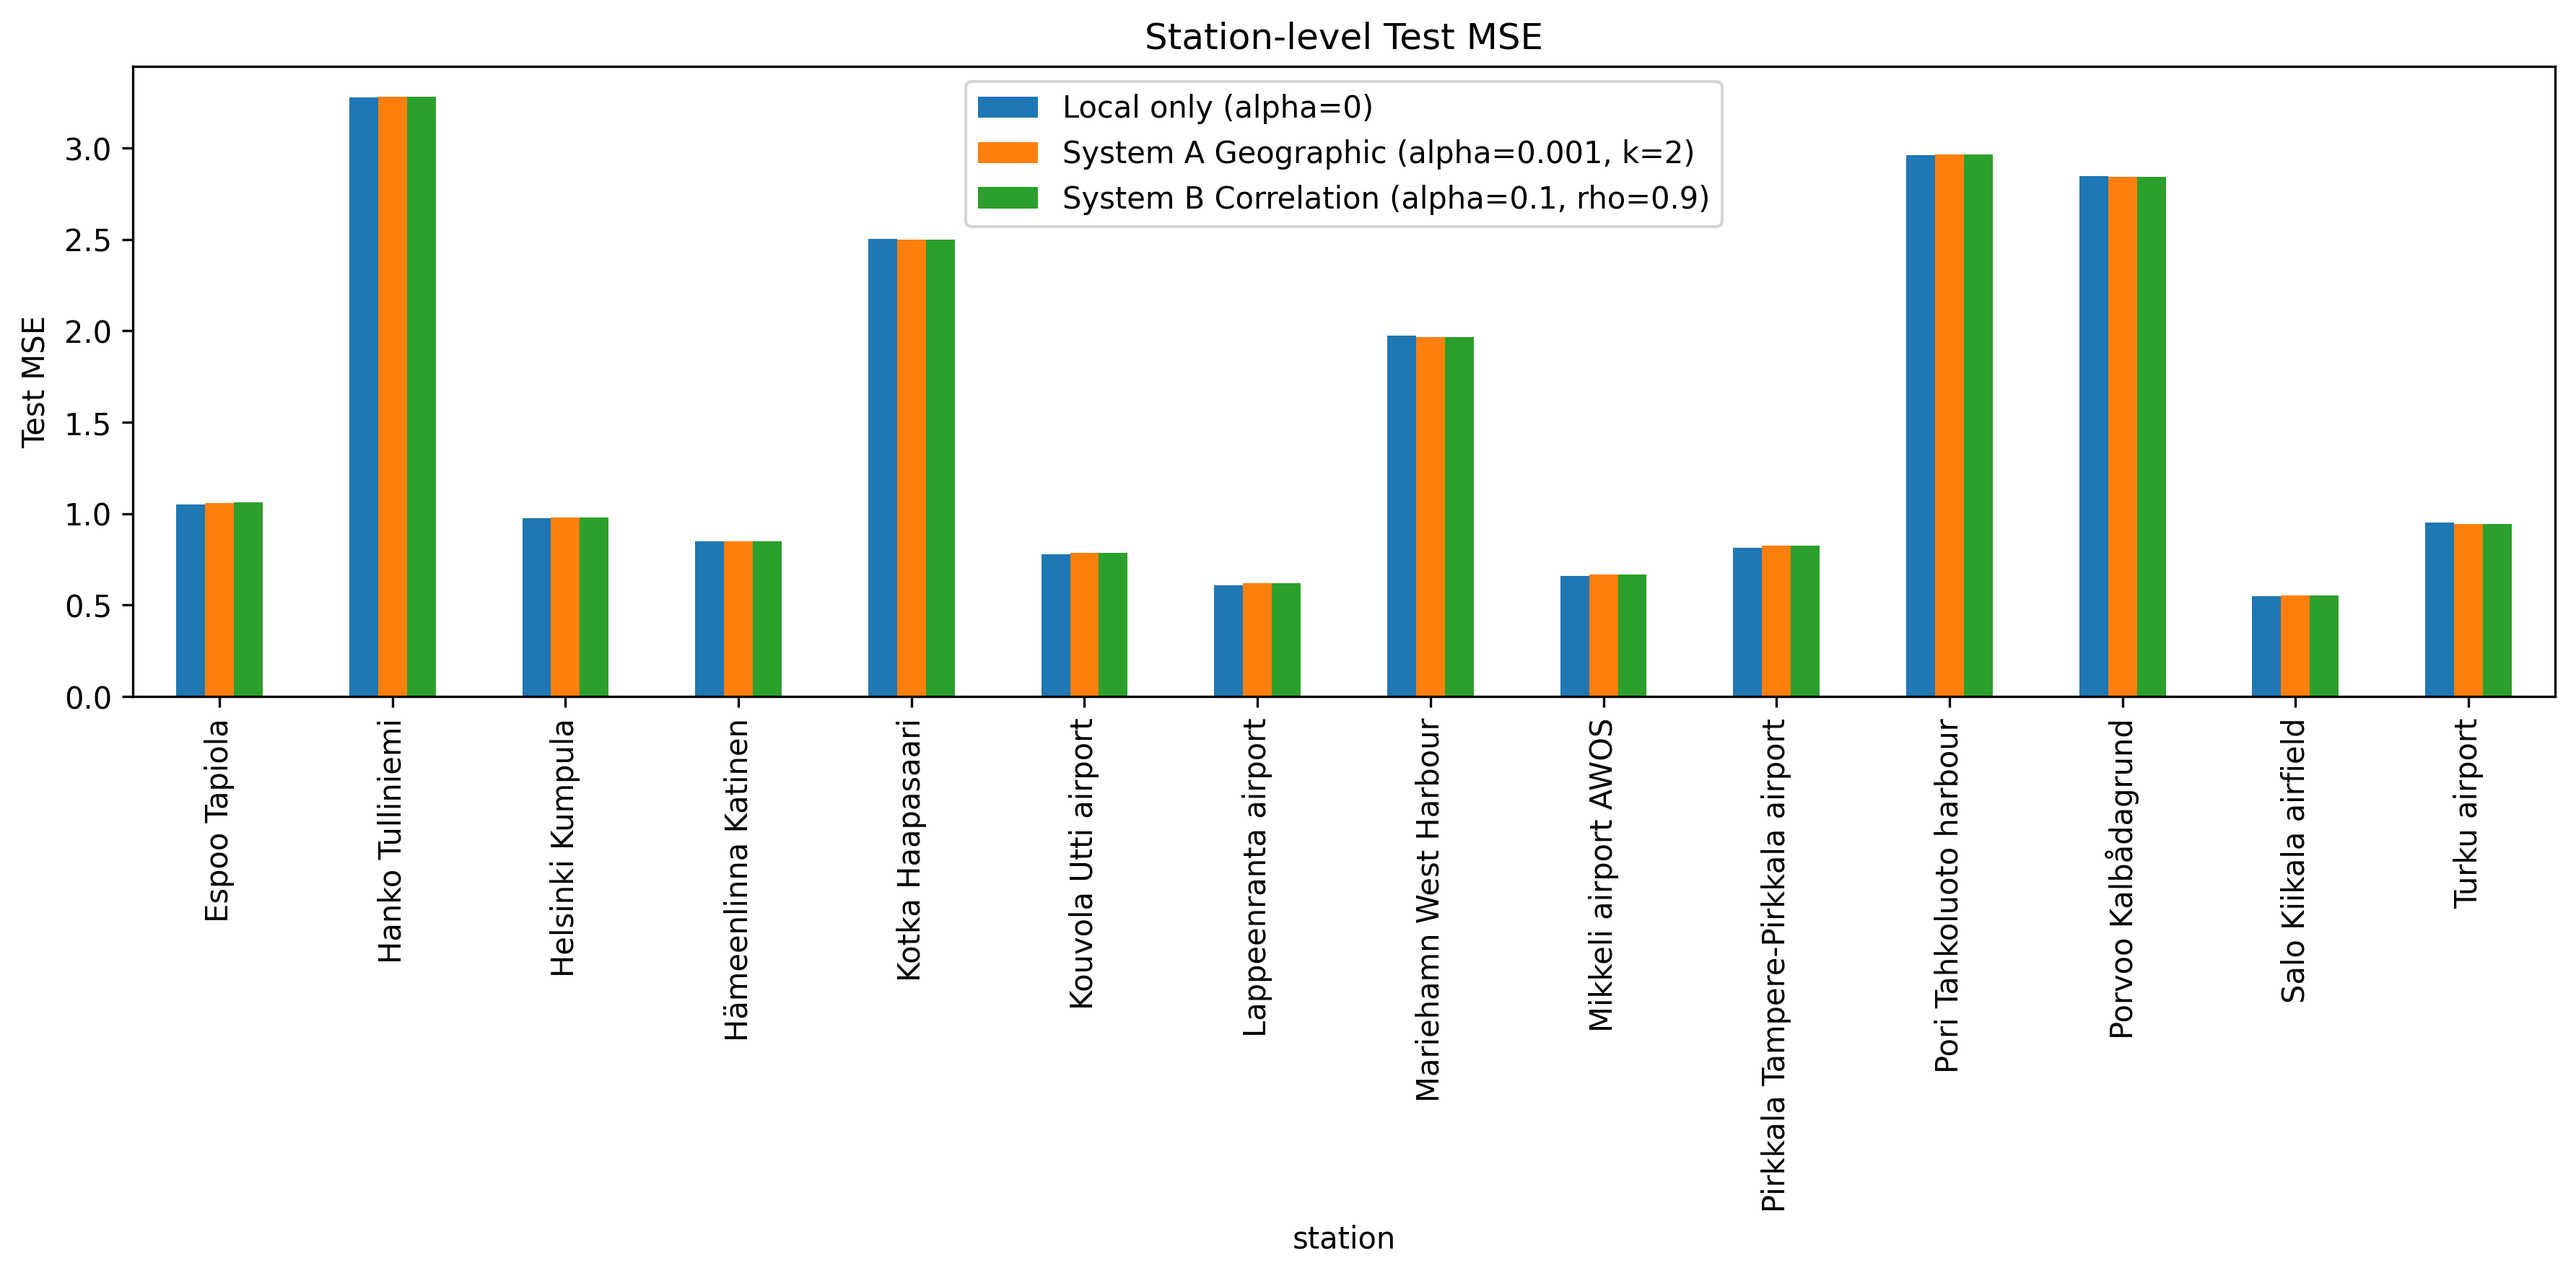
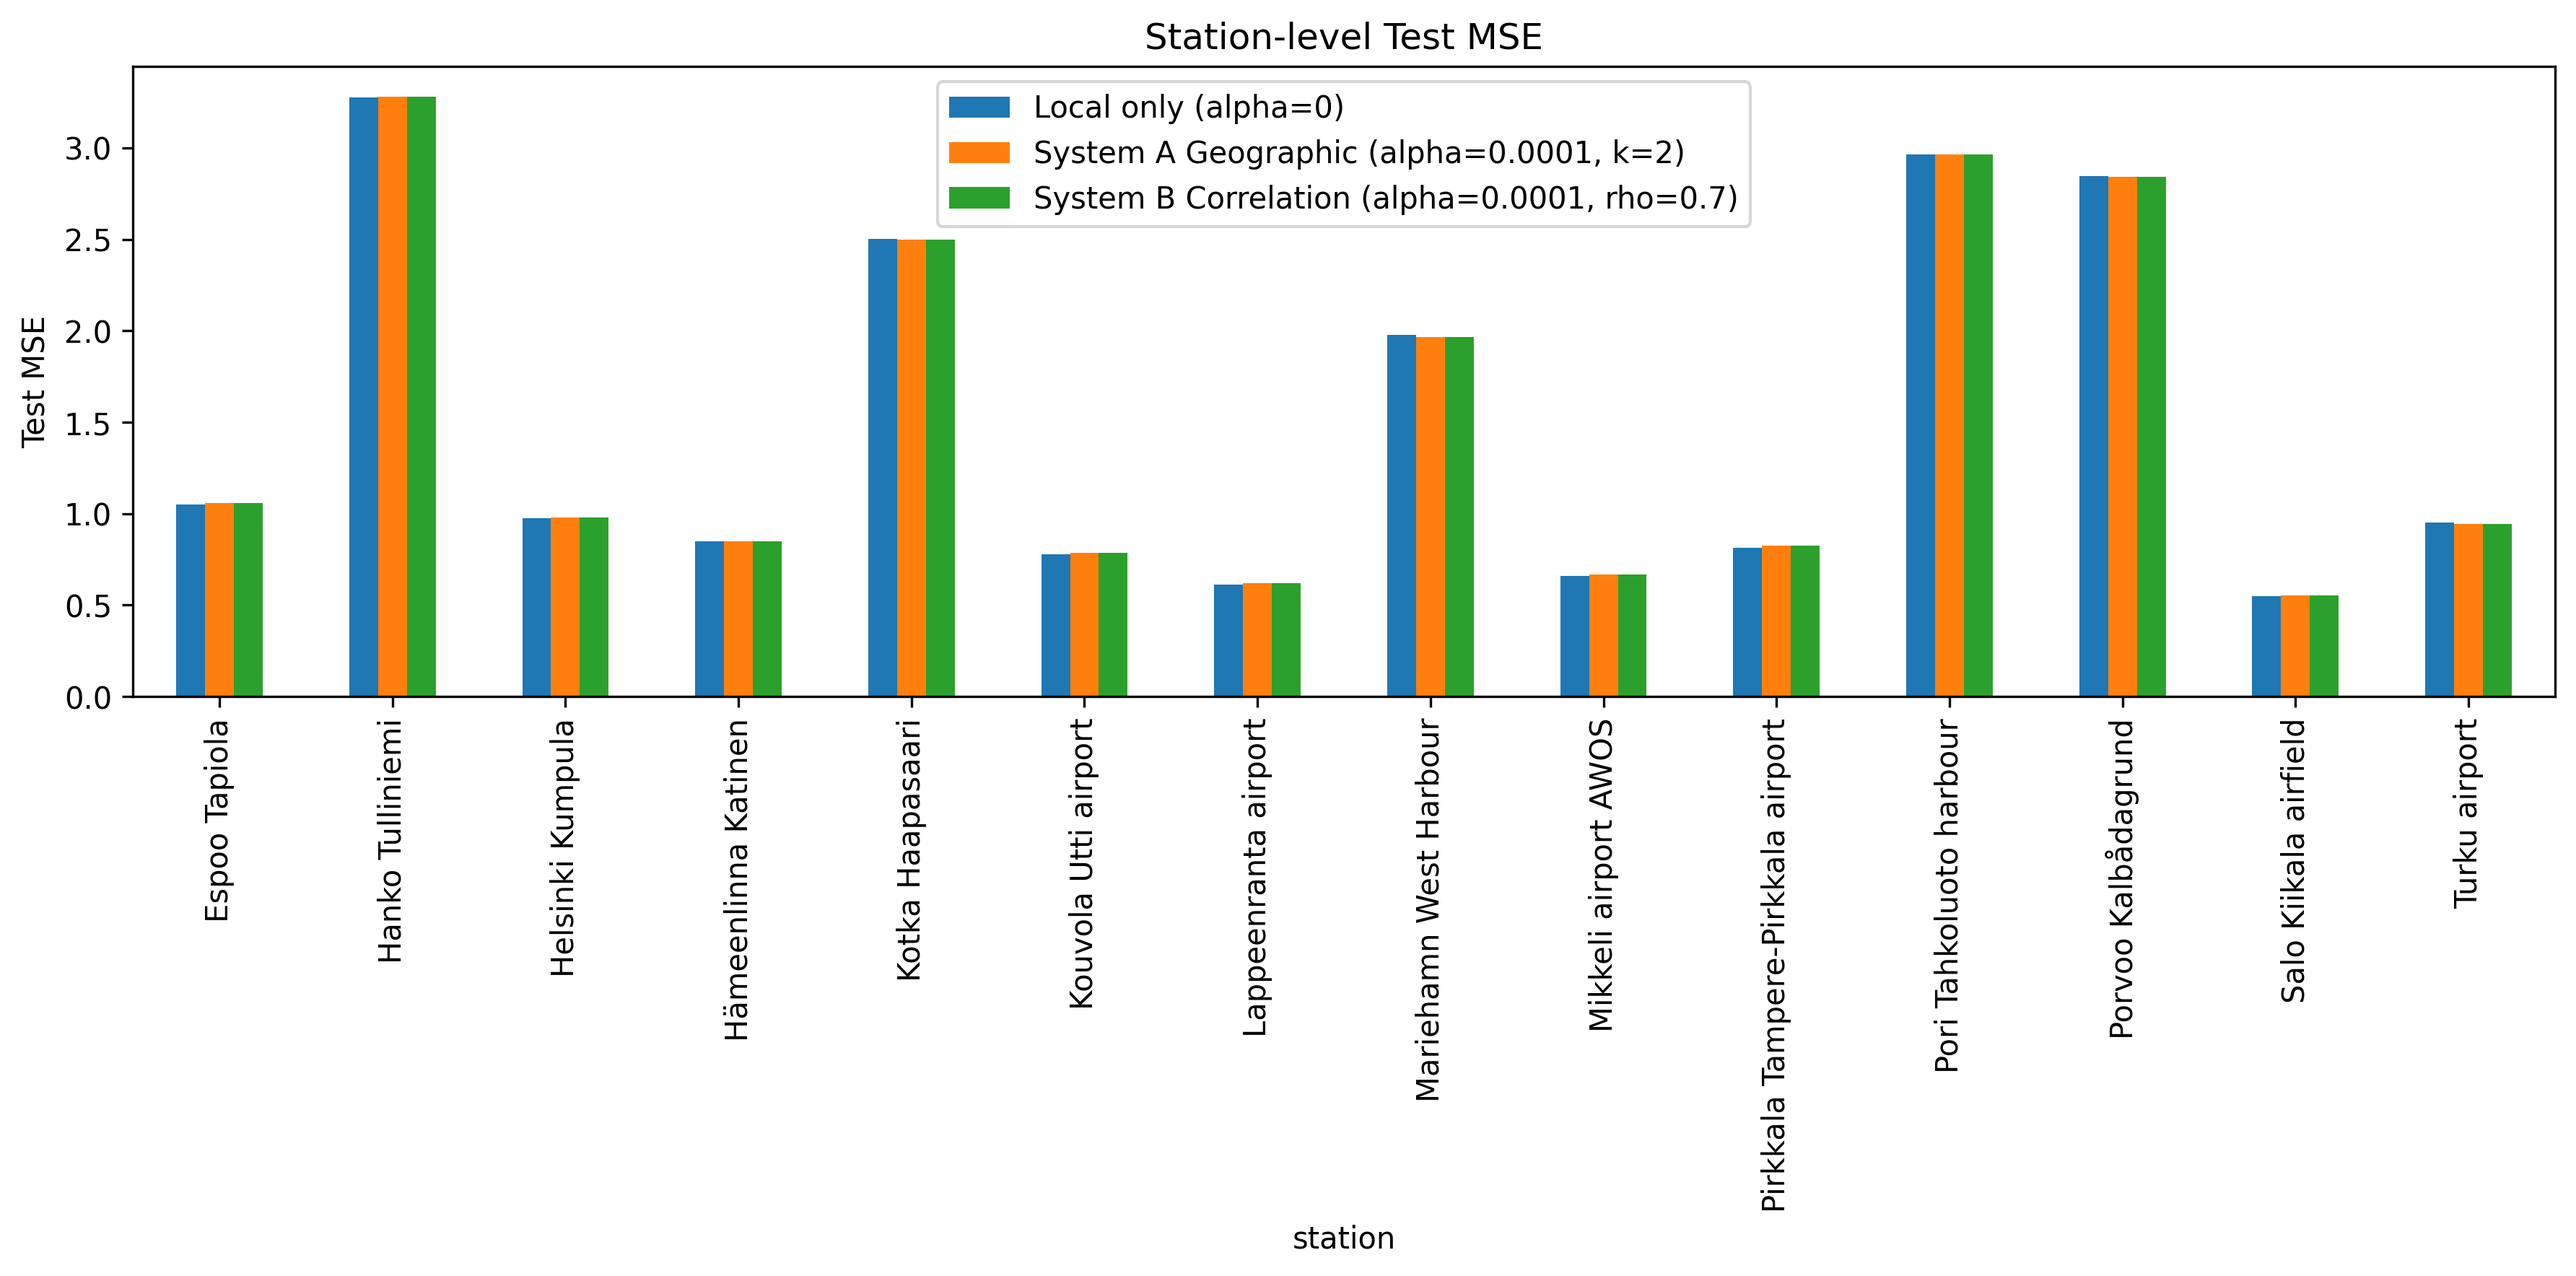
add convergence loss and optimize hyperparameter search

Changed region(s): [[0.3421, 0.0622, 0.6842, 0.1867]]

diff --git a/fl_wind.py b/fl_wind.py
@@ -286,15 +286,9 @@ def train_local_closed_form(stations: Dict[int, StationData], station_ids: List[
     return np.vstack(params)
 
 
-def train_gtvmin(
-    stations: Dict[int, StationData],
-    station_ids: List[int],
-    A: np.ndarray,
-    alpha: float,
-    iterations: int,
-    lr: float,
-    regularize_intercept: bool,
-) -> np.ndarray:
+def train_gtvmin(stations: Dict[int, StationData], station_ids: List[int], A: np.ndarray, 
+                 alpha: float, iterations: int, lr: float, regularize_intercept: bool, log_every: int = 50,
+                 ) -> Tuple[np.ndarray, List]:
     n = len(station_ids)
     d = len(FEATURE_COLS) + 1
     W = np.zeros((n, d), dtype=float)
@@ -307,6 +301,7 @@ def train_gtvmin(
     reg_mask = np.ones(d, dtype=float)
     if not regularize_intercept:
         reg_mask[-1] = 0.0
+    loss_history = []
 
     for it in range(iterations):
         W_old = W.copy()
@@ -325,12 +320,22 @@ def train_gtvmin(
 
         W = W_old - lr * grad
 
+        if it % log_every == 0:
+            total_loss = 0.0
+            for i, (X_i, y_i) in enumerate(train_arrays):
+                total_loss += float(np.mean((X_i @ W[i] - y_i) ** 2))
+                for j in range(n):
+                    if A[i, j] > 0:
+                        diff_ij = (W[i] - W[j]) * reg_mask
+                        total_loss += alpha * A[i, j] * float(np.dot(diff_ij, diff_ij))
+            loss_history.append((it, total_loss))
+
         if not np.all(np.isfinite(W)):
             raise FloatingPointError(
                 f"GTVMin diverged at iteration {it}. Try smaller --lr, e.g. --lr 0.001"
             )
 
-    return W
+    return W, loss_history
 
 
 def evaluate_params(W: np.ndarray, stations: Dict[int, StationData], station_ids: List[int], split: str):
@@ -387,8 +392,8 @@ def main() -> None:
     parser.add_argument("--k", type=int, default=2)
     parser.add_argument("--sigma_km", type=float, default=50.0)
     parser.add_argument("--regularize_intercept", action="store_true", help="Also graph-regularize intercepts")
-    parser.add_argument("--alphas", type=float, nargs="+", default=[0.001, 0.01, 0.1, 1.0])
-    parser.add_argument("--corr_thresholds", type=float, nargs="+", default=[0.5, 0.6, 0.7, 0.8, 0.9])
+    parser.add_argument("--alphas", type=float, nargs="+", default=[0.0001, 0.0005, 0.001, 0.003, 0.005, 0.008, 0.01, 0.03, 0.05])
+    parser.add_argument("--corr_thresholds", type=float, nargs="+", default=[0.3, 0.4, 0.5, 0.6, 0.7])
     args = parser.parse_args()
 
     data_dir = Path(args.data_dir)
@@ -421,7 +426,7 @@ def main() -> None:
     best_geo = None
     for alpha in args.alphas:
         try:
-            W_geo = train_gtvmin(stations, station_ids, A_geo, alpha, args.iterations, args.lr, args.regularize_intercept)
+            W_geo, _ = train_gtvmin(stations, station_ids, A_geo, alpha, args.iterations, args.lr, args.regularize_intercept)
             val_mse, val_mae, _ = evaluate_params(W_geo, stations, station_ids, "val")
             print(f"  System A alpha={alpha:g}: val MSE={val_mse:.4f}, val MAE={val_mae:.4f}")
         except FloatingPointError as exc:
@@ -432,6 +437,11 @@ def main() -> None:
 
     if best_geo is None:
         raise RuntimeError("All System A alpha values diverged. Try --lr 0.001")
+        
+    _, loss_hist_geo = train_gtvmin(
+        stations, station_ids, A_geo,
+        best_geo["alpha"], args.iterations, args.lr, args.regularize_intercept
+    )
 
     summary, detail = evaluate_all_splits(
         f"System A Geographic (alpha={best_geo['alpha']:g}, k={args.k})",
@@ -450,7 +460,7 @@ def main() -> None:
             continue
         for alpha in args.alphas:
             try:
-                W_corr = train_gtvmin(stations, station_ids, A_corr, alpha, args.iterations, args.lr, args.regularize_intercept)
+                W_corr, _ = train_gtvmin(stations, station_ids, A_corr, alpha, args.iterations, args.lr, args.regularize_intercept)
                 val_mse, val_mae, _ = evaluate_params(W_corr, stations, station_ids, "val")
                 print(f"  System B threshold={threshold:g}, alpha={alpha:g}, edges={n_edges}: val MSE={val_mse:.4f}, val MAE={val_mae:.4f}")
             except FloatingPointError as exc:
@@ -461,6 +471,11 @@ def main() -> None:
 
     if best_corr is None:
         raise RuntimeError("No valid correlation graph. Try lower thresholds, e.g. --corr_thresholds 0.1 0.2 0.3 0.4 0.5")
+
+    _, loss_hist_corr = train_gtvmin(
+        stations, station_ids, best_corr["A"],
+        best_corr["alpha"], args.iterations, args.lr, args.regularize_intercept
+    )
 
     graph_edges_dataframe(best_corr["A"], station_ids).to_csv(out_dir / "system_B_correlation_edges.csv", index=False)
     summary, detail = evaluate_all_splits(
@@ -488,10 +503,29 @@ def main() -> None:
             param_rows.append(row)
     pd.DataFrame(param_rows).to_csv(out_dir / "learned_parameters.csv", index=False)
     
+
+    iters_A, losses_A = zip(*loss_hist_geo)
+    iters_B, losses_B = zip(*loss_hist_corr)
+
+    fig, axes = plt.subplots(1, 2, figsize=(12, 4))
+    axes[0].plot(iters_A, losses_A)
+    axes[0].set_xlabel("Iteration")
+    axes[0].set_ylabel("GTVMin objective")
+    axes[0].set_title(f"System A convergence (alpha={best_geo['alpha']:g})")
+    axes[0].set_yscale("log")
+
+    axes[1].plot(iters_B, losses_B)
+    axes[1].set_xlabel("Iteration")
+    axes[1].set_ylabel("GTVMin objective")
+    axes[1].set_title(f"System B convergence (alpha={best_corr['alpha']:g}, rho={best_corr['threshold']:g})")
+    axes[1].set_yscale("log")
+
+    plt.tight_layout()
+    plt.savefig(out_dir / "convergence_curves.png", dpi=150, bbox_inches="tight")
+    plt.close()
+
     #visualization
     # Station-level test MSE figure
-
-    import matplotlib.pyplot as plt
 
     test_detail = detail_df[detail_df["split"] == "test"]
 
